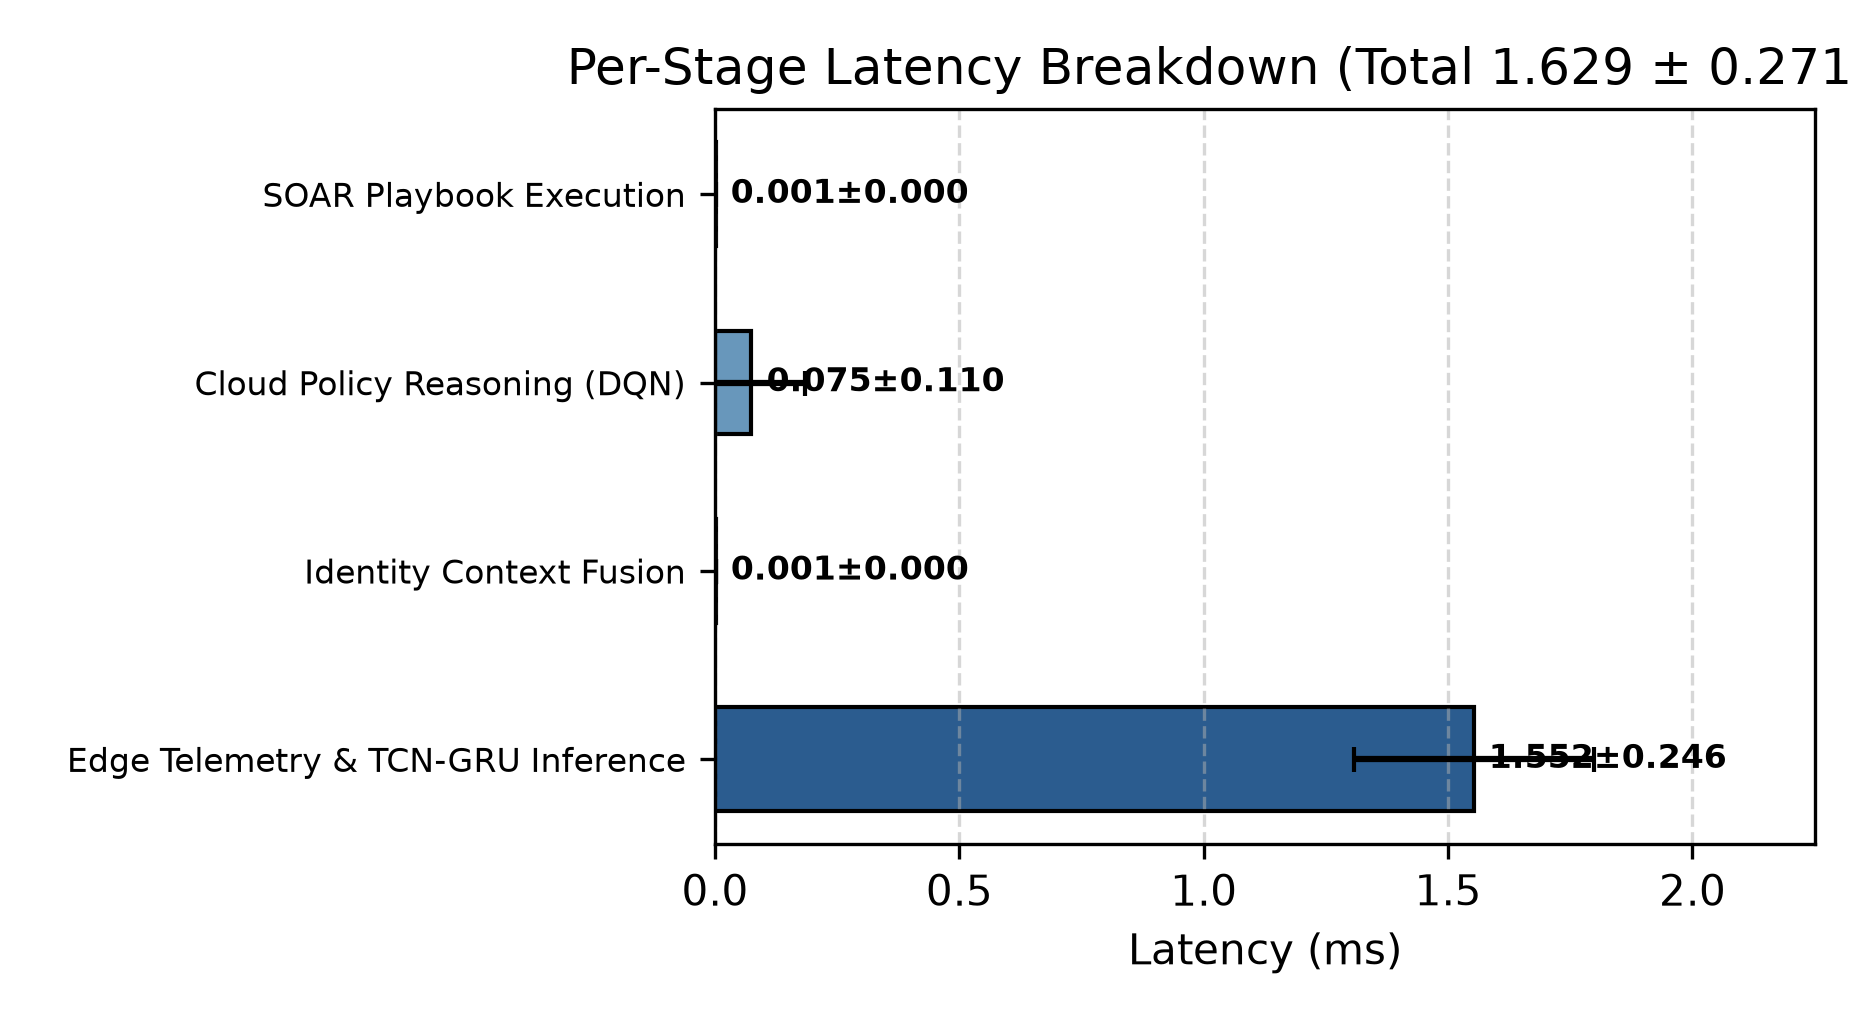
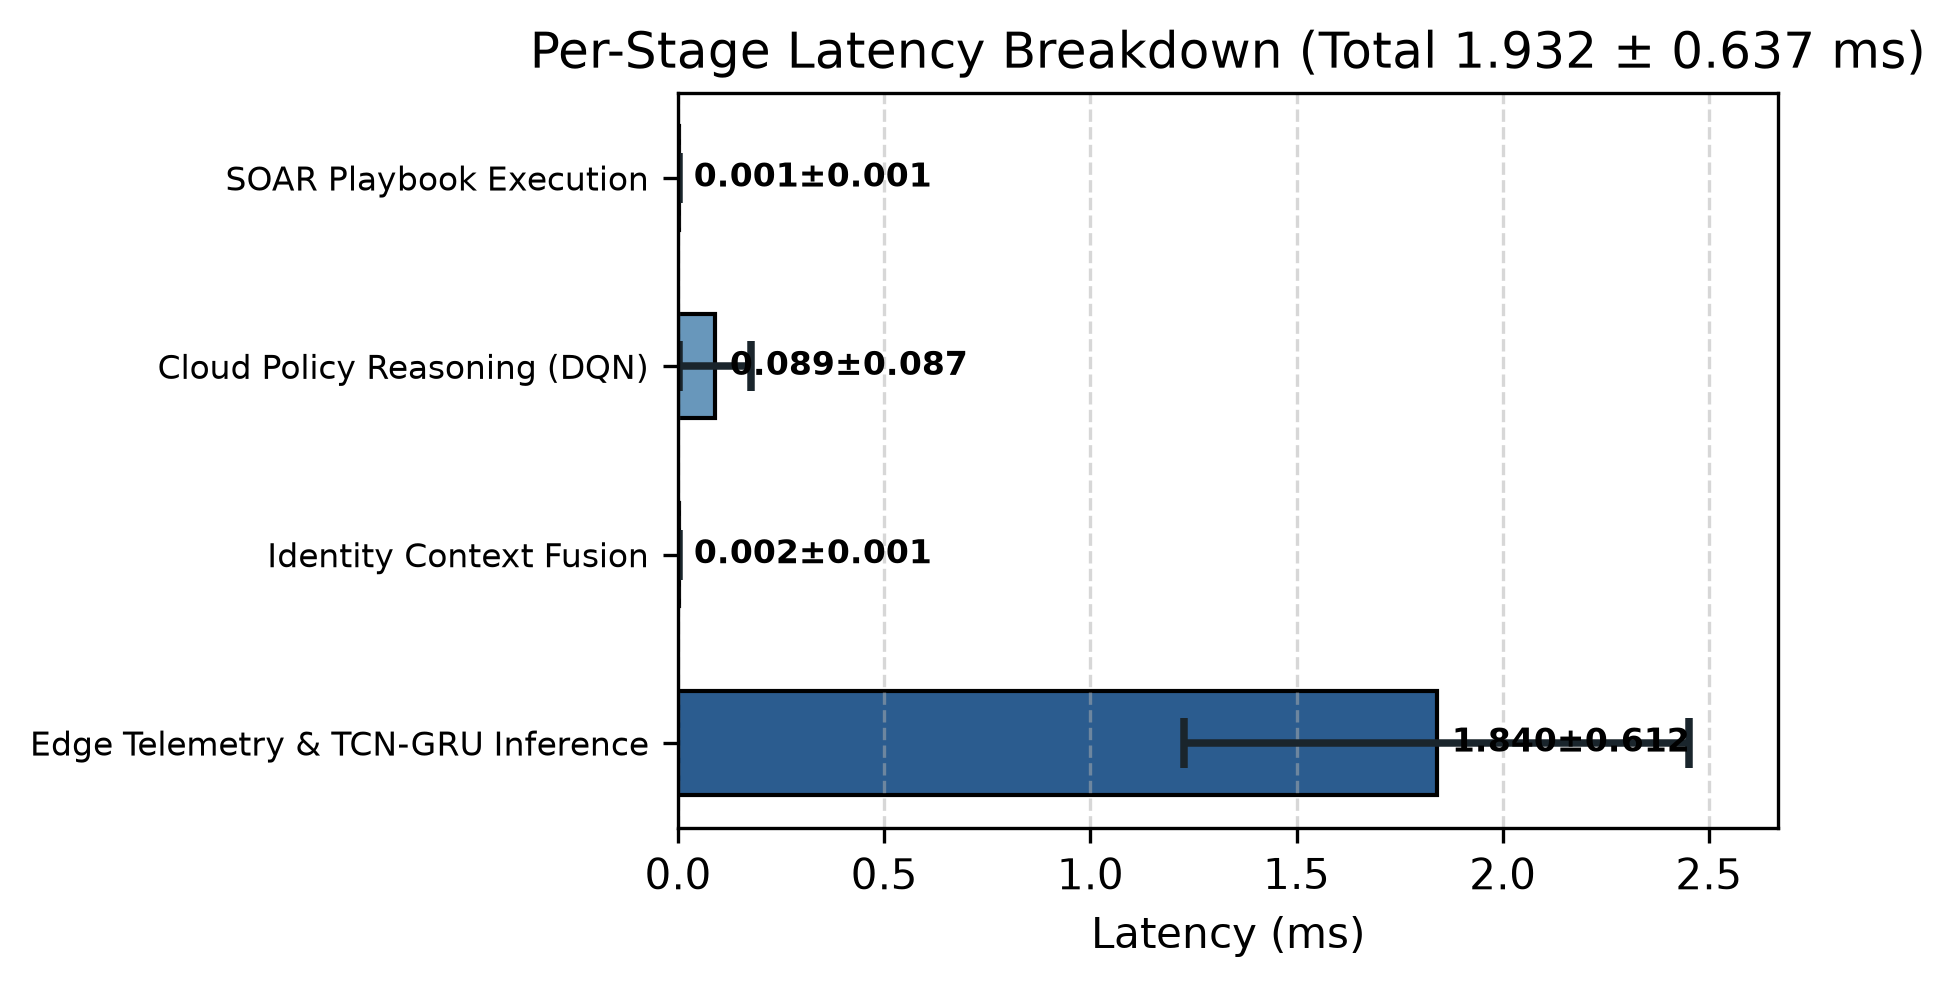
style(figures): polish Fig 1 trust boundary line, Fig 2 error bars, Fig 5 memory chart annotations, and export 300 DPI high resolution figures

diff --git a/AI-Native-Security-Platform/results/generate_architecture_figure.py b/AI-Native-Security-Platform/results/generate_architecture_figure.py
@@ -13,18 +13,20 @@ OUT_PNG = os.path.join(BASE_DIR, "paper", "figures", "fig1_architecture.png")
 OUT_RESULTS = os.path.join(BASE_DIR, "results", "fig1_architecture.png")
 
 
-def _box(ax, x, y, w, h, text, facecolor, edgecolor):
+def _box(ax, x, y, w, h, text, facecolor, edgecolor, linestyle="-", linewidth=1.5):
     patch = FancyBboxPatch(
         (x, y),
         w,
         h,
         boxstyle="round,pad=0.02,rounding_size=0.03",
-        linewidth=1.5,
+        linewidth=linewidth,
+        linestyle=linestyle,
         facecolor=facecolor,
         edgecolor=edgecolor,
     )
     ax.add_patch(patch)
-    ax.text(x + w / 2, y + h / 2, text, ha="center", va="center", fontsize=8, fontweight="bold", wrap=True)
+    if text:
+        ax.text(x + w / 2, y + h / 2, text, ha="center", va="center", fontsize=8, fontweight="bold", wrap=True)
     return patch
 
 
@@ -40,9 +42,13 @@ def generate_architecture_figure():
     _box(ax, 4.0, 0.6, 2.4, 3.8, "", "#FFF3E0", "#EF6C00")
     _box(ax, 6.9, 0.6, 4.7, 3.8, "", "#F3E5F5", "#6A1B9A")
 
-    ax.text(1.9, 4.15, "Campus Edge", ha="center", fontsize=9, fontweight="bold", color="#0D47A1")
-    ax.text(5.2, 4.15, "Event Bus", ha="center", fontsize=9, fontweight="bold", color="#E65100")
-    ax.text(9.25, 4.15, "Cloud Control Plane", ha="center", fontsize=9, fontweight="bold", color="#4A148C")
+    # Trust Boundary (Red Dashed Box around Edge Ingest)
+    _box(ax, 0.15, 0.45, 3.5, 4.15, "", "none", "#D32F2F", linestyle="--", linewidth=1.8)
+    ax.text(1.9, 4.7, "[!] TRUST BOUNDARY / ATTACK SURFACE", ha="center", fontsize=7.5, fontweight="bold", color="#D32F2F")
+
+    ax.text(1.9, 4.15, "Campus Edge (Untrusted Ingest)", ha="center", fontsize=8.5, fontweight="bold", color="#0D47A1")
+    ax.text(5.2, 4.15, "Event Bus (TLS Stream)", ha="center", fontsize=8.5, fontweight="bold", color="#E65100")
+    ax.text(9.25, 4.15, "Cloud Control Plane (Trusted Domain)", ha="center", fontsize=8.5, fontweight="bold", color="#4A148C")
 
     _box(ax, 0.55, 2.7, 2.7, 0.9, "Telemetry Vectorization\nΔt = 1.0 s (10-D flows)", "#FFFFFF", "#1565C0")
     _box(ax, 0.55, 1.5, 2.7, 0.9, "INT8 TCN-GRU\nAnomaly Autoencoder", "#FFFFFF", "#1565C0")
@@ -73,7 +79,7 @@ def generate_architecture_figure():
             )
         )
 
-    ax.text(6.0, 0.25, "Closed-loop mitigation without human-in-the-loop triage", ha="center", fontsize=8, style="italic")
+    ax.text(6.0, 0.2, "Closed-loop mitigation without human-in-the-loop triage", ha="center", fontsize=8, style="italic")
 
     os.makedirs(os.path.dirname(OUT_PNG), exist_ok=True)
     plt.tight_layout()

diff --git a/AI-Native-Security-Platform/results/generate_table5.py b/AI-Native-Security-Platform/results/generate_table5.py
@@ -108,6 +108,10 @@ def run_real_resource_benchmark(seed: int = 42, sustain_s: float = 2.5):
     ax2.plot(throughputs, ai_ram_list, "o-", color="#2b5c8f", label="AI-Native Process RSS", linewidth=2)
     ax2.plot(throughputs, dpi_ram_list, "s--", color="#d9534f", label="Legacy DPI RSS (est.)", linewidth=2)
     ax2.axhline(y=model_mb, color="#5cb85c", linestyle=":", label=f"INT8 model={model_mb:.3f} MB")
+    ax2.annotate(f"Process RSS: ~{ai_ram_list[-1]:.1f} MB", xy=(throughputs[2], ai_ram_list[2]), xytext=(1500, ai_ram_list[2] + 160),
+                 arrowprops=dict(arrowstyle="->", lw=1.2, color="#2b5c8f"), fontsize=8, fontweight="bold", color="#2b5c8f")
+    ax2.annotate(f"INT8 Model: {model_mb:.3f} MB", xy=(throughputs[1], model_mb), xytext=(1200, 220),
+                 arrowprops=dict(arrowstyle="->", lw=1.2, color="#5cb85c"), fontsize=8, fontweight="bold", color="#2e7d32")
     ax2.set_xlabel("Throughput (events/s)")
     ax2.set_ylabel("Memory (MB)")
     ax2.set_title("Memory Footprint vs Throughput")
@@ -115,9 +119,9 @@ def run_real_resource_benchmark(seed: int = 42, sustain_s: float = 2.5):
     ax2.grid(True, linestyle="--", alpha=0.5)
 
     plt.tight_layout()
-    plt.savefig(PNG_PATH, dpi=300)
+    plt.savefig(PNG_PATH, dpi=300, bbox_inches="tight")
     os.makedirs(os.path.dirname(FIG_PATH), exist_ok=True)
-    plt.savefig(FIG_PATH, dpi=300)
+    plt.savefig(FIG_PATH, dpi=300, bbox_inches="tight")
     plt.close()
 
     return {

diff --git a/AI-Native-Security-Platform/results/generate_table2.py b/AI-Native-Security-Platform/results/generate_table2.py
@@ -90,7 +90,7 @@ def run_real_latency_benchmark(num_trials: int = 1000, seed: int = 42):
     fig, ax = plt.subplots(figsize=(6.2, 3.4))
     colors = ["#2b5c8f", "#4682b4", "#6897bb", "#d9534f"]
     y = np.arange(len(stages))
-    ax.barh(y, means, xerr=stds, color=colors, edgecolor="black", height=0.55, capsize=3)
+    ax.barh(y, means, xerr=stds, color=colors, edgecolor="black", height=0.55, error_kw=dict(ecolor="#1A252C", lw=1.8, capsize=6, capthick=1.8))
     ax.set_yticks(y)
     ax.set_yticklabels(stages, fontsize=8)
     ax.set_xlabel("Latency (ms)")
@@ -100,9 +100,9 @@ def run_real_latency_benchmark(num_trials: int = 1000, seed: int = 42):
         ax.text(m + max(means) * 0.02, i, f"{m:.3f}±{s:.3f}", va="center", fontsize=8, fontweight="bold")
     ax.set_xlim(0, max(means) * 1.45)
     plt.tight_layout()
-    plt.savefig(PNG_PATH, dpi=300)
+    plt.savefig(PNG_PATH, dpi=300, bbox_inches="tight")
     os.makedirs(os.path.dirname(FIG_PATH), exist_ok=True)
-    plt.savefig(FIG_PATH, dpi=300)
+    plt.savefig(FIG_PATH, dpi=300, bbox_inches="tight")
     plt.close()
 
     print(f"  [+] Total: {total_mean:.4f} ± {total_std:.4f} ms")
